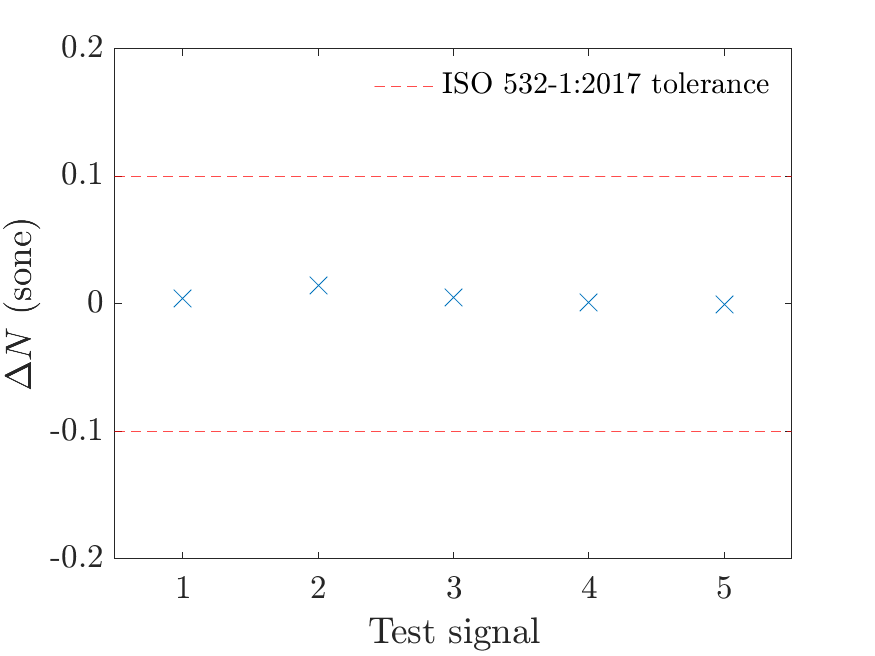
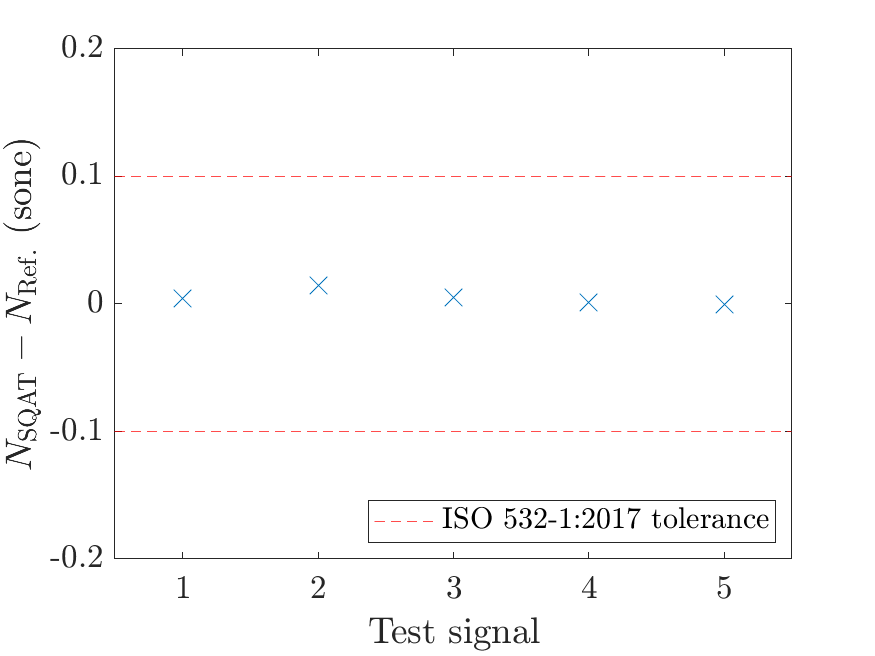
loudness validation
- including summary of differences for all signals in terms of different single-value indicators
- fixing small typos
- including readme.md files

diff --git a/validation/Loudness_ISO532_1/3_technical_signals_time_varying_loudness/validation_technical_signals_time_varying.m b/validation/Loudness_ISO532_1/3_technical_signals_time_varying_loudness/validation_technical_signals_time_varying.m
@@ -53,6 +53,9 @@ end
 X = categorical( {'14','15','16','17','18','19','20','21','22','23','24','25'} );
 X = reordercats( X, {'14','15','16','17','18','19','20','21','22','23','24','25'} );
 
+diff_vector_Nmax = zeros(1 , length(X)); % declare for memory allocation
+diff_vector_N5 = zeros(1 , length(X)); 
+
 % create vector with loudness differences of all test signals  
 for i = 1:length(X)
     diff_vector_Nmax(i) = OUT.RefScalar{i}(1,3); % max. loudness 
@@ -71,14 +74,11 @@ set(h,'PaperPositionMode','Auto','PaperUnits','Inches','PaperSize',[pos(3), pos(
 yyaxis left
 handle_a = plot(X, diff_vector_Nmax, 'x', 'Markersize', 12);
 
-jnd = 0.07;
-handle_c = yline(  jnd, '--k'); % plot tolerance of N=1 sone stipulated by the ISO norm
-yline( -jnd, '--k');
-
 ymin = -1; ymax =1;
 ylim([ymin ymax]);
 
-ylabel('$\Delta N_{\mathrm{max}}$ (sone)','Interpreter','Latex');
+variable_Nmax = '$N_{\mathrm{max,SQAT}} - N_{\mathrm{max,Ref.}}$';
+ylabel( [variable_Nmax  ' (sone)'], 'Interpreter','Latex');
 xlabel('Test signal','Interpreter','Latex');
 
 %%%%%%%%%%%%%%%%%%%%%%%%%%%%%%%%%%%%%%%
@@ -89,9 +89,10 @@ yyaxis right
 handle_b = plot(X, diff_vector_N5, 's', 'Markersize', 12);
 ylim([ymin ymax]);
 
-ylabel('$\Delta N_{\mathrm{5\%}}$ (sone)','Interpreter','Latex');
+variable_N5 = '$N_{\mathrm{5\%,SQAT}} - N_{\mathrm{5\%,Ref.}}$';
+ylabel([variable_N5 ' (sone)'], 'Interpreter', 'Latex');
 
-legend([handle_a, handle_b ,handle_c], {'$\Delta N_{\mathrm{max}}$' , '$\Delta N_{\mathrm{5\%}}$', '$\pm$ 0.07 sone (JND)'}, 'Location','SE')
+legend([handle_a, handle_b], {variable_Nmax, variable_N5}, 'Location', 'SE')
 legend box on
 
 grid off

diff --git a/validation/Loudness_ISO532_1/2_synthetic_signals_time_varying_loudness/validation_synthetic_signals_time_varying.m b/validation/Loudness_ISO532_1/2_synthetic_signals_time_varying_loudness/validation_synthetic_signals_time_varying.m
@@ -51,6 +51,9 @@ end
 X = categorical( {'6','7','8','9','10','11','12','13'} );
 X = reordercats(X, {'6','7','8','9','10','11','12','13'} );
 
+diff_vector_Nmax = zeros(1 , length(X)); % declare for memory allocation
+diff_vector_N5 = zeros(1 , length(X)); 
+
 % create vector with loudness differences of all test signals  
 for i = 1:length(X)
     diff_vector_Nmax(i) = OUT.RefScalar{i}(1,3); % max. loudness 
@@ -69,14 +72,11 @@ set(h,'PaperPositionMode','Auto','PaperUnits','Inches','PaperSize',[pos(3), pos(
 yyaxis left
 handle_a = plot(X, diff_vector_Nmax, 'x', 'Markersize', 12);
 
-jnd = 0.07;
-handle_c = yline(  jnd, '--k'); % plot tolerance of N=1 sone stipulated by the ISO norm
-yline( -jnd, '--k');
-
 ymin = -1; ymax =1;
 ylim([ymin ymax]);
 
-ylabel('$\Delta N_{\mathrm{max}}$ (sone)','Interpreter','Latex');
+variable_Nmax = '$N_{\mathrm{max,SQAT}} - N_{\mathrm{max,Ref.}}$';
+ylabel( [variable_Nmax  ' (sone)'], 'Interpreter','Latex');
 xlabel('Test signal','Interpreter','Latex');
 
 %%%%%%%%%%%%%%%%%%%%%%%%%%%%%%%%%%%%%%%
@@ -87,9 +87,10 @@ yyaxis right
 handle_b = plot(X, diff_vector_N5, 's', 'Markersize', 12);
 ylim([ymin ymax]);
 
-ylabel('$\Delta N_{\mathrm{5\%}}$ (sone)','Interpreter','Latex');
+variable_N5 = '$N_{\mathrm{5\%,SQAT}} - N_{\mathrm{5\%,Ref.}}$';
+ylabel([variable_N5 ' (sone)'], 'Interpreter', 'Latex');
 
-legend([handle_a, handle_b ,handle_c], {'$\Delta N_{\mathrm{max}}$' , '$\Delta N_{\mathrm{5\%}}$', '$\pm$ 0.07 sone (JND)'}, 'Location','SE')
+legend([handle_a, handle_b], {variable_Nmax, variable_N5}, 'Location', 'SE')
 legend box on
 
 grid off

diff --git a/validation/Loudness_ISO532_1/1_synthetic_signals_stationary_loudness/validation_stationary_loudness_synthetic_signals.m b/validation/Loudness_ISO532_1/1_synthetic_signals_stationary_loudness/validation_stationary_loudness_synthetic_signals.m
@@ -48,6 +48,8 @@ disp('')
 % test signals
 X = categorical({'1','2','3','4','5'});
 
+diff_vector = zeros(1 , length(X)); % declare for memory allocation
+
 % create vector with loudness differences of all test signals  
 for i = 1:length(X)
     diff_vector(i) = OUT.RefScalar{i}(1,3);
@@ -68,11 +70,11 @@ yline( -tolerance, '--r');
 ymin = -0.2; ymax = 0.2;
 ylim([ymin ymax]);
 
-ylabel('$\Delta N$ (sone)','Interpreter','Latex');
+ylabel('$N_{\mathrm{SQAT}} - N_{\mathrm{Ref.}}$ (sone)','Interpreter','Latex');
 xlabel('Test signal','Interpreter','Latex');
 
-legend(handle_a, 'ISO 532-1:2017 tolerance');
-legend box off
+legend(handle_a, 'ISO 532-1:2017 tolerance', 'Location', 'SE');
+legend box on;
 
 grid off
 set(gcf,'color','w');

diff --git a/validation/Loudness_ISO532_1/README.md b/validation/Loudness_ISO532_1/README.md
@@ -1,7 +1,7 @@
 # Loudness according to ISO 532-1: verification of the implementation in SQAT
 The Zwicker method for calculating the loudness of stationary and time-varying sounds is standardized in ISO 532-1 [1]. In SQAT, the implementation of this loudness model is named `Loudness_ISO532_1` (see code [here](../../psychoacoustic_metrics/Loudness_ISO532_1/Loudness_ISO532_1.m)). For the purpose of validating a specific implementation, the ISO standard provides a set of 25 test signals and the following requirements:
 
-- Criteria for stationary loudness: for all stationary test signals given in the Annex B.2 and B.3, the specific loudness values shall differ by no more than $\pm5~\\%$ or $\pm0.1~\mathrm{sone/Bark}$ from the reference values, and the total loudness shall not deviate from the reference values by more than $\pm5~\\%$ or $\pm1~\mathrm{sone}$.
+- Criteria for stationary loudness: for all stationary test signals given in the Annex B.2 and B.3, the specific loudness values shall differ by no more than $\pm5~\\%$ or $\pm0.1~\mathrm{sone/Bark}$ from the reference values, and the total loudness shall not deviate from the reference values by more than $\pm5~\\%$ or $\pm0.1~\mathrm{sone}$.
 
 - Criteria for time-varying loudness: for all test signals given in the Annex B.4, the specific loudness vs. time shall not differ by more than $\pm5~\\%$ or $\pm0.1~\mathrm{sone/Bark}$ from the reference values within a temporal tolerance of $\pm2~\mathrm{ms}$. The tolerance can be extended to $\pm10~\\%$ or $\pm0.2~\mathrm{sone/Bark}$ within a temporal tolerance of $\pm2~\mathrm{ms}$, but only for maximum $1~\\%$ of the sampled specific loudness vs. time function using a time resolution of $\pm2~\mathrm{ms}$.
 

diff --git a/validation/Loudness_ISO532_1/2_synthetic_signals_time_varying_loudness/README.md b/validation/Loudness_ISO532_1/2_synthetic_signals_time_varying_loudness/README.md
@@ -50,9 +50,18 @@ The figures below compare the results obtained using the `Loudness_ISO532_1` imp
 | -------------- | -------------- |
 | ![](figs/validation_time_varying_loudness_signal_13.png)   | ![](figs/validation_time_varying_loudness_signal_13_specific_loudness.png)  |
 
+
+A summary presenting the differences (max. total loudness and 5\% percentile loudness) between calculated (SQAT) and reference values provided by ISO 532-1 is presented below for signals 6-13. The differences are not bigger than 0.1 sone for any signal of metric. Despite providing reference values, the ISO standard do not stipulates any tolerance values for synthetic time-varying signals in terms of those single-value indicators.
+
+
+Summary of loudness differences for signals 6-13  |  
+:-------------------------:| 
+![](figs/validation_time_varying_synthetic_signals_loudness_difference.png) 
+
 # References
 [1] International Organization for Standardization. (2017). Acoustics - Methods for calculating loudness - Part 1: Zwicker method (ISO Standard No. 532-1).
 
 # Log
 This code was released in SQAT v1.0, 14.05.2023
+Summary of loudness differences included by Gil Felix Greco, 08.12.2024
 

diff --git a/validation/Loudness_ISO532_1/3_technical_signals_time_varying_loudness/README.md b/validation/Loudness_ISO532_1/3_technical_signals_time_varying_loudness/README.md
@@ -31,9 +31,20 @@ The figures below compare the results obtained using the `Loudness_ISO532_1` imp
 | -------------- | -------------- |
 | ![](figs/validation_time_varying_loudness_signal_24.png)   | ![](figs/validation_time_varying_loudness_signal_25.png) |
 
+
+A summary presenting the differences (max. total loudness and 5\% percentile loudness) between calculated (SQAT) and reference values provided by ISO 532-1 is presented below for signals 14-25. The differences are not bigger than 0.1 sone for any signal of metric. Despite providing reference values, the ISO standard do not stipulates any tolerance values for technical time-varying signals in terms of those single-value indicators.
+
+
+Summary of loudness differences for signals 14-25  |  
+:-------------------------:| 
+![](figs/validation_time_varying_technical_signals_loudness_difference.png) 
+
+
 # References
 [1] International Organization for Standardization. (2017). Acoustics - Methods for calculating loudness - Part 1: Zwicker method (ISO Standard No. 532-1).
 
 # Log
 This code was released in SQAT v1.0, 14.05.2023
+Summary of loudness differences included by Gil Felix Greco, 08.12.2024
+
 

diff --git a/validation/Loudness_ISO532_1/1_synthetic_signals_stationary_loudness/README.md b/validation/Loudness_ISO532_1/1_synthetic_signals_stationary_loudness/README.md
@@ -29,10 +29,17 @@ Test signal 1 (stationary loudness based on one-third-octave levels)  |
 | -------------- | -------------- |
 | ![](figs/validation_stationary_loudness_signal_4.png)   | ![](figs/validation_stationary_loudness_signal_5.png)  |
 
+A summary presenting the loudness difference between calculated (SQAT) and reference values provided by ISO 532-1 is presented below for signals 1-5. For synthetic stationary signals, the ISO standard stipulates a tolerance value of $N=0.1$~sone, which is not surpassed for any signal. 
+
+Summary of loudness differences for signals 1-5  |  
+:-------------------------:| 
+![](figs/validation_stationary_signals_loudness_difference.png) 
+
 
 # References
 [1] International Organization for Standardization. (2017). Acoustics - Methods for calculating loudness - Part 1: Zwicker method (ISO Standard No. 532-1).
 
 # Log
 This code was released in SQAT v1.0, 14.05.2023
+Summary of loudness differences included by Gil Felix Greco, 08.12.2024
 
